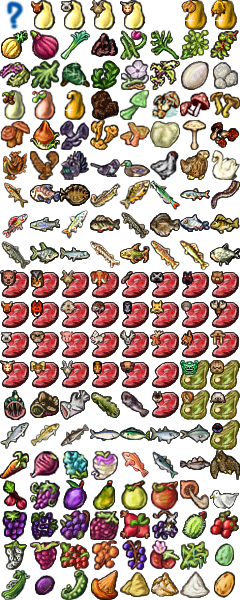
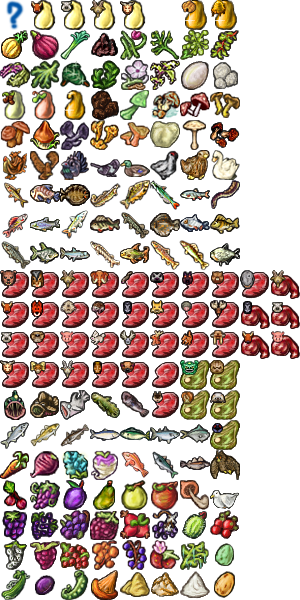
Food data added

diff --git a/rawdata/w11/tables.js b/rawdata/w11/tables.js
@@ -201,7 +201,13 @@ var gl_meat = [
 	"Wildgoat",
 	"Wolf",
 	"Wolverine",
-	"Wood Grouse"
+	"Wood Grouse",
+	"Goat bollock",
+	"Horse bollock",
+	"Mutton bollock",
+	"Beef bollock",
+	"Pork bollock",
+	"Cachalot"
 ];
 var gl_meatweird = [
 	"Ant",
@@ -326,18 +332,24 @@ var gl_food = [
 	["Bark Bread", ["water", "flour"], {"con1" : 5, "wil1" : 5}, 500, 5],
 	["Beaver Dog", ["mushroom"], {"con2" : 4, "csm1" : 2, "wil1" : 2}, 600, 2.5],
 	["Birthday Cake", ["water", "flour", "milk", "butter", "honey", "egg"], {"csm2" : 12, "psy2" : 5}, 1000, 3.5],
+	["Blubber Feast", [], {"con2" : 8.0, "agi2" : 5.0, "csm1" : 3.0, "prc1" : 3.0}, 500.0, 4.0], 
 	["Blueberry Pie", ["water", "flour"], {"int1" : 4, "prc1" : 3}, 200, 3.5],
 	["Bread", ["water", "flour"], {"con1" : 5}, 500, 5],
 	["Butter-Chived Trout", ["butter"], {"str1" : 3, "int2" : 4, "prc1" : 5}, 400, 2.5],
 	["Cabrales", [], {"dex2" : 5.0, "con1" : 5.0, "int1" : 5.0}, 100.0, 4.0], 
 	["Carrot Cake", ["water", "flour", "butter"], {"prc1" : 7}, 500, 3],
+	["Cheesecake",	["water", "flour"],	{"wil2" : 4.0, "csm1" : 3.0, "prc1" : 3.0}, 500.0, 3.0],
+	["Creamy Cock", ["milk", "fat"], {"agi1" : 15.0, "dex1" : 10.0, "prc2" : 5.0, "psy1" : 5.0}, 1000.0, 4.0],
 	["Crêpe Citrouille", ["butter", "flour", "milk", "egg", "butter"], {"str1" : 5, "agi1" : 4, "csm2" : 2}, 750, 3],
 	["Crêpe Noisette", ["butter", "flour", "milk", "egg", "sweetener"], {"con1" : 5, "agi1" : 4, "csm2" : 2}, 750, 3],
+	["Egg Cake",	["egg", "milk", "water", "flour"],	{"int1" : 5.0, "agi1" : 3.0}, 600.0, 3.5],
 	["Encumbered Roast", ["meat"], {"str2" : 3, "wil1" : 2, "prc1" : 2}, 500, 4],
 	["Fish in Tears", ["fish", "fat", "onion"], {"agi1" : 4, "csm2" : 4}, 500, 2.5],
 	["Fishballs",	["fish", "onion", "flour", "spice"],	{"csm2" : 3, "wil1" : 5.0}, 400.0, 4.0],
+	["Fishpie",	["fish", "egg", "water", "flour"],	{"int1" : 5.0, "prc1" : 3.0}, 700.0, 5.0],
 	["Fishsticks",	["fish", "butter", "milk", "flour", "egg"],	{"int1" : 4, "con1" : 4}, 400.0, 3.0],
 	["Fishwrap", ["berry", "fish", "spice"], {"int1" : 2, "prc1" : 3, "wil1" : 2}, 500, 2],
+	["Garrotxa", [], {"dex2" : 20.0, "dex1" : 30.0}, 100.0, 4.0], 
 	["Greenleaf Pie", ["flour", "salad", "water"], {"int1" : 2, "con1" : 3, "wil1" : 1}, 500, 3],
 	["Grubpie", ["water", "flour"], {"str2" : 3, "prc2" : 4, "wil2" : 4}, 600, 3],
 	["Honey'd Bear", ["honey", "butter", "spice"], {"wil2" : 4.0, "str2" : 3.0, "con1" : 3.0}, 500.0, 2.5], 
@@ -348,10 +360,12 @@ var gl_food = [
 	["Magpie", ["water", "flour", "egg", "spice"], {"int2" : 3, "con1" : 3, "wil1" : 4}, 750, 4],
 	["Majorero", [], {"prc2" : 5.0, "prc1" : 10.0, "csm1" : 15.0}, 100.0, 4.0], 
 	["Meatpie", ["water", "flour", "meat", "egg", "spice"], {"str1" : 5, "con1" : 4}, 700, 5],
+	["Midnight Blue Cheese", [], {"str2" : 50.0}, 100.0, 4.0], 
 	["Mothzarella", [], {"prc2" : 5.0, "csm2" : 3.0}, 100.0, 4.0], 
 	["Mushroom & Onion Pirozhki", ["water", "flour", "onion", "mushroom"], {"con1" : 4, "dex1" : 4}, 350, 5],
-	["Mushroom Mash",	["mushroom", "butter", "spice"],	{"wil1" : 4.0, "int1" : 3.0, "prc2" : 2.0}, 500.0, 3.0],
+	["Mushroom Mash",	["mushroom", "fat", "spice"],	{"wil1" : 4.0, "int1" : 3.0, "prc2" : 2.0}, 500.0, 3.0],
 	["Mushroom-Burst Glutton", ["carcass", "mushroom", "spice"], {"con1" : 3, "prc1" : 3, "csm2" : 2}, 750, 2],
+	["Musky Milben", [], {"str2" : 10.0, "int1" : 10.0}, 100.0, 4.0], 
 	["Olive Bread",	[ "flour", "water" ],	{"str1" : 3.0, "agi2" : 2.0, "dex1" : 4.0}, 500.0, 2.0],
 	["Pancake", ["butter", "flour", "milk", "egg"], {"csm1" : 5}, 500, 4],
 	["Pea Pie", ["water", "flour"], {"con1" : 5, "csm1" : 3, "prc1" : 2}, 500, 3.5],
@@ -366,7 +380,7 @@ var gl_food = [
 	["Strawberries in Cream", ["milk"], {"int2" : 4, "csm1" : 4, "wil1" : 4}, 500, 1],
 	["Strawberry Cake", ["water", "flour", "butter"], {"wil2" : 6, "prc1" : 6}, 400, 2],
 	["Tasty Emmentaler", [], {"csm1" : 10.0, "int2" : 5.0}, 100.0, 4.0], 
-	["Tuber Mash",	["tuber", "butter", "spice"],	{"csm1" : 5.0, "int1" : 3.0, "prc1" : 2.0}, 700.0, 3.0],
+	["Tuber Mash",	["tuber", "fat", "spice"],	{"csm1" : 5.0, "int1" : 3.0, "prc1" : 2.0}, 700.0, 3.0],
 	["Zesty Brill", ["onion"], {"str1" : 4, "dex1" : 4, "wil1" : 5}, 800, 2.5]
 ];
 var gl_fepmod = [
@@ -425,6 +439,7 @@ var gl_fepmod = [
 	["Autumn Steak", ["Wild Beef", "Parboiled Morels", "Lettuce Leaf"], {"prc2" : 2.0, "prc1" : 3.0, "con1" : 1.5, "dex2" : 4.0}], 
 	["Bark Bread", ["Millet Flour"], {"con1" : 5.75, "wil1" : 5.0}], 
 	["Beaver Dog", ["Bay Bolete"], {"con2" : 2.0, "wil1" : 2.0, "csm1" : 2.0, "dex2" : 3.0}], 
+	["Beaver Dog", ["Cave Lantern"], {"con2" : 0.8, "wil1" : 2.0, "csm1" : 2.0, "int1" : 7.0}], 
 	["Beaver Dog", ["Chantrelles"], {"con2" : 4.0, "wil1" : 2.0, "csm1" : 1.2, "agi1" : 1.0}], 
 	["Beaver Dog", ["Giant Puffball"], {"con2" : 1.6, "wil1" : 2.0, "csm1" : 2.0, "prc1" : 2.6}], 
 	["Beaver Dog", ["Parasol Mushroom"], {"con2" : 3.0, "wil1" : 2.0, "csm1" : 2.0, "dex1" : 2.0}], 
@@ -444,12 +459,31 @@ var gl_fepmod = [
 	["Carrot Cake", ["Goatsmilk", "Millet Flour"], {"prc1" : 3.9375, "wil1" : 3.43, "con1" : 1.5006}], 
 	["Carrot Cake", ["Millet Flour"], {"prc1" : 5.6, "con1" : 2.45}], 
 	["Carrot Cake", ["Sheepsmilk", "Millet Flour"], {"prc1" : 3.9375, "dex1" : 3.43, "con1" : 1.5006}], 
+	["Cheesecake", ["Barley Flour"], {"wil2" : 4.0, "csm1" : 3.0, "prc1" : 2.7, "con1" : 1.05}], 
+	["Cheesecake", ["Millet Flour"], {"wil2" : 3.2, "csm1" : 3.0, "prc1" : 3.0, "con1" : 1.4}], 
+	["Cheesecake", ["Wheat Flour"], {"wil2" : 3.2, "csm1" : 3.0, "prc1" : 5.4}], 
+	["Creamy Cock", ["Cowsmilk", "Cowsmilk"], {"agi1" : 7.5, "dex1" : 10.0, "prc2" : 5.0, "psy1" : 2.5, "con1" : 14.0}], 
+	["Creamy Cock", ["Goatsmilk", "Goatsmilk"], {"agi1" : 7.5, "dex1" : 24.0, "prc2" : 5.0, "psy1" : 2.5}], 
+	["Creamy Cock", ["Sheepsmilk", "Sheepsmilk"], {"agi1" : 7.5, "dex1" : 10.0, "prc2" : 5.0, "psy1" : 2.5, "csm1" : 14.0}], 
+	["Creamy Cock", [], {"agi1" : 15.0, "dex1" : 10.0, "prc2" : 5.0, "psy1" : 5.0}], 
 	["Crêpe Citrouille", ["Barley Flour", "Cowsmilk", "Chicken Egg", "Cowsmilk", "Cowsmilk"], {"str1" : 1.425, "agi1" : 4.0, "csm2" : 0.45, "con1" : 7.875}], 
 	["Crêpe Citrouille", ["Barley Flour", "Goatsmilk", "Chicken Egg", "Goatsmilk", "Goatsmilk"], {"str1" : 1.425, "agi1" : 4.0, "csm2" : 0.45, "dex1" : 7.875}], 
 	["Crêpe Citrouille", ["Cowsmilk", "Chicken Egg", "Millet Flour", "Cowsmilk", "Cowsmilk"], {"str1" : 1.25, "agi1" : 4.0, "csm2" : 0.5, "con1" : 8.4525}], 
 	["Crêpe Citrouille", ["Cowsmilk", "Chicken Egg", "Wheat Flour", "Cowsmilk", "Cowsmilk"], {"str1" : 1.25, "agi1" : 4.0, "csm2" : 0.5, "con1" : 5.88, "prc1" : 4.41}], 
 	["Crêpe Citrouille", ["Goatsmilk", "Chicken Egg", "Millet Flour", "Goatsmilk", "Goatsmilk"], {"str1" : 1.25, "agi1" : 4.0, "csm2" : 0.5, "dex1" : 5.88, "con1" : 2.5725}], 
 	["Crêpe Citrouille", ["Goatsmilk", "Chicken Egg", "Wheat Flour", "Goatsmilk", "Goatsmilk"], {"str1" : 1.25, "agi1" : 4.0, "csm2" : 0.5, "dex1" : 5.88, "con1" : 4.41}], 
+	["Egg Cake", ["Barley Flour", "Chicken Egg"], {"int1" : 5.0, "agi1" : 2.7, "str1" : 1.05}], 
+	["Egg Cake", ["Barley Flour", "Cowsmilk", "Chicken Egg"], {"int1" : 3.75, "agi1" : 2.7, "str1" : 2.905}], 
+	["Egg Cake", ["Barley Flour", "Goatsmilk", "Chicken Egg"], {"int1" : 3.75, "agi1" : 2.7, "str1" : 0.7875, "wil1" : 2.1175}], 
+	["Egg Cake", ["Barley Flour", "Sheepsmilk", "Chicken Egg"], {"int1" : 3.75, "agi1" : 2.7, "str1" : 0.7875, "dex1" : 2.1175}], 
+	["Egg Cake", ["Chicken Egg", "Millet Flour"], {"int1" : 4.0, "agi1" : 3.0, "wil1" : 1.75}], 
+	["Egg Cake", ["Chicken Egg", "Wheat Flour"], {"int1" : 4.0, "agi1" : 3.0, "con1" : 3.0}], 
+	["Egg Cake", ["Cowsmilk", "Chicken Egg", "Millet Flour"], {"int1" : 3.0, "agi1" : 2.25, "con1" : 2.8, "wil1" : 1.3125}], 
+	["Egg Cake", ["Cowsmilk", "Chicken Egg", "Wheat Flour"], {"int1" : 3.0, "agi1" : 2.25, "con1" : 5.05}], 
+	["Egg Cake", ["Goatsmilk", "Chicken Egg", "Millet Flour"], {"int1" : 3.0, "agi1" : 2.25, "dex1" : 2.8, "wil1" : 1.3125}], 
+	["Egg Cake", ["Goatsmilk", "Chicken Egg", "Wheat Flour"], {"int1" : 3.0, "agi1" : 2.25, "dex1" : 2.8, "con1" : 2.25}], 
+	["Egg Cake", ["Sheepsmilk", "Chicken Egg", "Millet Flour"], {"int1" : 3.0, "agi1" : 2.25, "csm1" : 2.8, "wil1" : 1.3125}], 
+	["Egg Cake", ["Sheepsmilk", "Chicken Egg", "Wheat Flour"], {"int1" : 3.0, "agi1" : 2.25, "csm1" : 2.8, "con1" : 2.25}], 
 	["Encumbered Roast", ["Bear"], {"str2" : 5.25, "wil1" : 2.0, "prc1" : 2.0}], 
 	["Encumbered Roast", ["Grey Seal"], {"str2" : 1.5, "wil1" : 2.0, "prc1" : 2.0, "agi2" : 6.0}], 
 	["Encumbered Roast", ["Mammoth"], {"str2" : 5.3333, "wil1" : 2.0, "prc1" : 2.0}], 
@@ -489,6 +523,9 @@ var gl_fepmod = [
 	["Fishballs", ["Barley Flour", "Laurel Leaves", "Leek", "Cave angler"], {"csm2" : 2.903, "wil1" : 5.0, "con1" : 1.05, "prc1" : 2.3328, "str2" : 3.7325}], 
 	["Fishballs", ["Barley Flour", "Laurel Leaves", "Red Onion", "Cave angler"], {"csm2" : 3.6288, "wil1" : 5.0, "con1" : 0.84, "str1" : 0.525, "str2" : 4.6656}], 
 	["Fishballs", ["Barley Flour", "Laurel Leaves", "Yellow Onion", "Cave angler"], {"csm2" : 2.903, "wil1" : 5.0, "con1" : 3.3828, "str2" : 3.7325}], 
+	["Fishpie", ["Barley Flour", "Chicken Egg", "Cave angler"], {"int1" : 3.5, "prc1" : 2.7, "con1" : 1.05, "con2" : 4.5}], 
+	["Fishpie", ["Chicken Egg", "Millet Flour", "Cave angler"], {"int1" : 2.8, "prc1" : 3.0, "wil1" : 1.75, "con2" : 3.6}], 
+	["Fishpie", ["Chicken Egg", "Wheat Flour", "Cave angler"], {"int1" : 2.8, "prc1" : 3.0, "con1" : 3.0, "con2" : 3.6}], 
 	["Fishsticks", ["Barley Flour", "Cowsmilk", "Chicken Egg", "Cave angler", "Cowsmilk"], {"int1" : 1.4, "con1" : 9.36, "str2" : 1.8}], 
 	["Fishwrap", ["Cave angler", "Blueberries"], {"prc1" : 2.1, "int1" : 3.08, "wil1" : 2.0, "int2" : 2.025}], 
 	["Fishwrap", ["Cave angler", "Mulberry"], {"prc1" : 2.1, "int1" : 2.0, "wil1" : 2.0, "int2" : 2.025, "csm1" : 0.945}], 
@@ -536,14 +573,29 @@ var gl_fepmod = [
 	["Honey'd Bear", ["Sheepsmilk", "Kvann", "Domestic Honey"], {"wil2" : 3.3, "str2" : 2.475, "con1" : 2.695, "csm1" : 3.3}], 
 	["Honey'd Bear", ["Sheepsmilk", "Kvann"], {"wil2" : 3.0, "str2" : 2.25, "con1" : 2.45, "csm1" : 3.0}], 
 	["Honey'd Bear", ["Sheepsmilk"], {"wil2" : 3.0, "str2" : 3.0, "con1" : 2.25, "csm1" : 2.45}], 
+	["Jotun's Morsel", ["Laurel Leaves", "Cowsmilk", "Goat bollock"], {"str1" : 3.6, "con1" : 10.788, "wil1" : 8.01, "int2" : 2.25, "agi2" : 3.6}], 
+	["Jotun's Morsel", ["Laurel Leaves", "Goat bollock", "Goatsmilk"], {"str1" : 3.6, "con1" : 6.0, "wil1" : 8.01, "int2" : 2.25, "agi2" : 3.6, "dex1" : 4.788}], 
+	["Jotun's Morsel", ["Laurel Leaves", "Goat bollock"], {"str1" : 3.6, "con1" : 6.0, "wil1" : 10.68, "int2" : 3.0, "agi2" : 3.6}], 
+	["Jotun's Morsel", ["Laurel Leaves", "Horse bollock"], {"str1" : 3.6, "con1" : 6.0, "wil1" : 10.68, "int2" : 3.0, "agi2" : 3.6}], 
 	["Jotun's Morsel", ["Laurel Leaves", "Mammoth"], {"str1" : 4.0, "con1" : 4.0, "wil1" : 7.12, "int2" : 2.0, "con2" : 4.28}], 
+	["Jotun's Morsel", ["Laurel Leaves", "Mutton bollock"], {"str1" : 3.0, "con1" : 6.0, "wil1" : 10.68, "int2" : 3.0, "csm2" : 6.0}], 
 	["Jotun's Morsel", ["Mammoth", "Chives"], {"str1" : 4.0, "con1" : 4.0, "wil1" : 4.0, "int2" : 2.0, "str2" : 3.5, "agi1" : 8.3047}], 
 	["Jotun's Morsel", ["Mammoth", "Dill"], {"str1" : 4.0, "con1" : 4.0, "wil1" : 4.0, "int2" : 2.0, "str2" : 5.915}], 
 	["Jotun's Morsel", ["Mammoth", "Kvann"], {"str1" : 4.0, "con1" : 4.0, "wil1" : 2.0, "int2" : 4.0, "str2" : 3.5}], 
 	["Jotun's Morsel", ["Mammoth"], {"str1" : 4.0, "con1" : 4.0, "wil1" : 4.0, "int2" : 2.0, "str2" : 3.5}], 
+	["Jotun's Morsel", ["Wolf", "Chives"], {"str1" : 6.0, "con1" : 4.0, "wil1" : 4.0, "int2" : 2.0, "agi1" : 7.5928}], 
+	["Jotun's Morsel", ["Wolf", "Kvann"], {"str1" : 6.0, "con1" : 4.0, "wil1" : 2.0, "int2" : 4.0}], 
+	["Jotun's Morsel", ["Wolf", "Laurel Leaves", "Cowsmilk"], {"str1" : 6.0, "con1" : 7.192, "wil1" : 5.34, "int2" : 1.5}], 
+	["Jotun's Morsel", ["Wolf"], {"str1" : 6.0, "con1" : 4.0, "wil1" : 4.0, "int2" : 2.0}], 
 	["Kebab Meat", ["Adder", "Kvann"], {"con2" : 1.0, "csm1" : 0.6, "int2" : 0.9}], 
 	["Kebab Meat", ["Adder"], {"con2" : 0.6, "csm1" : 1.0, "int2" : 0.9}], 
 	["Kebab Meat", ["Bat"], {"con2" : 1.0, "csm1" : 0.7, "prc1" : 0.4}], 
+	["Kebab Meat", ["Boreworm", "Laurel Leaves"], {"con2" : 1.0, "csm1" : 0.978, "dex1" : 0.4}], 
+	["Kebab Meat", ["Boreworm"], {"con2" : 1.0, "csm1" : 0.6, "dex1" : 0.4}], 
+	["Kebab Meat", ["Cave louse"], {"con2" : 1.8, "csm1" : 0.6}], 
+	["Kebab Meat", ["Chives", "Cachalot"], {"con2" : 0.5, "csm1" : 1.0, "agi1" : 0.5001, "agi2" : 2.5}], 
+	["Kebab Meat", ["Chives", "Cave louse"], {"con2" : 1.0, "csm1" : 1.0, "agi1" : 0.3001, "wil1" : 0.4001}], 
+	["Kebab Meat", ["Laurel Leaves", "Cave louse"], {"con2" : 1.4, "csm1" : 1.63}], 
 	["Kebab Meat", ["Laurel Leaves", "Mammoth"], {"con2" : 2.315, "csm1" : 1.63}], 
 	["Kebab Meat", ["Lynx"], {"con2" : 0.5, "csm1" : 1.0, "agi1" : 1.0}], 
 	["Kebab Meat", ["Mammoth", "Chives"], {"con2" : 2.0, "csm1" : 1.0, "agi1" : 0.7501}], 
@@ -562,7 +614,12 @@ var gl_fepmod = [
 	["Meatpie", ["Barley Flour", "Chicken Egg", "Golden Eagle", "Kvann"], {"str1" : 1.25, "con1" : 5.0, "wil2" : 6.25}], 
 	["Meatpie", ["Barley Flour", "Chicken Egg", "Golden Eagle"], {"str1" : 5.0, "con1" : 1.25, "wil2" : 6.25}], 
 	["Meatpie", ["Barley Flour", "Laurel Leaves", "Chicken Egg", "Golden Eagle"], {"str1" : 1.25, "con1" : 5.85, "prc2" : 6.25}], 
+	["Meatpie", ["Barley Flour", "Laurel Leaves", "Wolverine", "Chicken Egg"], {"str1" : 3.0, "con1" : 5.85, "agi1" : 4.0}], 
 	["Meatpie", ["Barley Flour", "Mammoth", "Chicken Egg"], {"str1" : 5.0, "con1" : 5.0, "con2" : 5.0}], 
+	["Meatpie", ["Barley Flour", "Wolverine", "Chicken Egg", "Chives"], {"str1" : 5.0, "con1" : 3.0, "dex2" : 4.0, "agi1" : 0.059}], 
+	["Meatpie", ["Barley Flour", "Wolverine", "Chicken Egg", "Dill"], {"str1" : 5.0, "con1" : 3.0, "dex2" : 4.32}], 
+	["Meatpie", ["Barley Flour", "Wolverine", "Chicken Egg", "Kvann"], {"str1" : 3.0, "con1" : 5.0, "dex2" : 4.0}], 
+	["Meatpie", ["Barley Flour", "Wolverine", "Chicken Egg"], {"str1" : 5.0, "con1" : 3.0, "dex2" : 4.0}], 
 	["Meatpie", ["Bat", "Millet Flour"], {"str1" : 4.0, "con1" : 4.55, "int1" : 1.6}], 
 	["Meatpie", ["Chicken Egg", "Chives", "Golden Eagle", "Wheat Flour"], {"str1" : 4.0, "con1" : 4.0, "agi1" : 3.0111, "prc1" : 0.0553}], 
 	["Meatpie", ["Chicken Egg", "Golden Eagle", "Wheat Flour", "Kvann"], {"str1" : 3.0, "con1" : 4.0, "wil2" : 5.0, "agi1" : 1.0}], 
@@ -576,6 +633,7 @@ var gl_fepmod = [
 	["Meatpie", ["Laurel Leaves", "Chicken Egg", "Millet Flour", "Golden Eagle"], {"str1" : 1.0, "con1" : 6.43, "prc2" : 5.0}], 
 	["Meatpie", ["Laurel Leaves", "Mammoth", "Chicken Egg", "Millet Flour"], {"str1" : 4.0, "con1" : 6.43, "con2" : 4.84}], 
 	["Meatpie", ["Laurel Leaves", "Mammoth", "Chicken Egg", "Wheat Flour"], {"str1" : 4.0, "con1" : 4.68, "con2" : 4.84, "agi1" : 3.0}], 
+	["Meatpie", ["Laurel Leaves", "Wolverine", "Chicken Egg", "Millet Flour"], {"str1" : 4.0, "con1" : 4.558, "dex2" : 3.744}], 
 	["Meatpie", ["Lynx", "Millet Flour"], {"str1" : 2.5, "con1" : 4.0, "int1" : 4.0, "wil1" : 1.75}], 
 	["Meatpie", ["Mammoth", "Chicken Egg", "Chives", "Wheat Flour"], {"str1" : 4.0, "con1" : 4.0, "con2" : 4.5, "agi1" : 3.0663}], 
 	["Meatpie", ["Mammoth", "Chicken Egg", "Millet Flour", "Chives"], {"str1" : 4.0, "con1" : 5.75, "con2" : 4.5, "agi1" : 0.07}], 
@@ -590,6 +648,10 @@ var gl_fepmod = [
 	["Meatpie", ["Wild Beef", "Millet Flour"], {"str1" : 4.0, "con1" : 5.75}], 
 	["Meatpie", ["Wild Horse", "Millet Flour"], {"str1" : 4.0, "con1" : 2.75, "agi1" : 3.0}], 
 	["Meatpie", ["Wolf", "Millet Flour"], {"str1" : 6.0, "con1" : 6.625}], 
+	["Meatpie", ["Wolverine", "Chicken Egg", "Millet Flour", "Chives"], {"str1" : 4.0, "con1" : 4.15, "dex2" : 3.2, "agi1" : 0.0558}], 
+	["Meatpie", ["Wolverine", "Chicken Egg", "Millet Flour", "Dill"], {"str1" : 4.0, "con1" : 4.15, "dex2" : 3.456}], 
+	["Meatpie", ["Wolverine", "Chicken Egg", "Millet Flour", "Kvann"], {"str1" : 4.15, "con1" : 4.0, "dex2" : 3.2}], 
+	["Meatpie", ["Wolverine", "Chicken Egg", "Millet Flour"], {"str1" : 4.0, "con1" : 4.15, "dex2" : 3.2}], 
 	["Meatpie", ["Wolverine", "Millet Flour"], {"str1" : 4.0, "con1" : 4.15, "dex2" : 3.2}], 
 	["Mushroom & Onion Pirozhki", ["Bay Bolete", "Leek", "Millet Flour"], {"con1" : 3.12, "dex1" : 2.56, "dex2" : 3.0, "int1" : 1.8}], 
 	["Mushroom & Onion Pirozhki", ["Bay Bolete", "Red Onion", "Millet Flour"], {"con1" : 3.4, "dex1" : 3.2, "dex2" : 2.4, "str1" : 1.5}], 
@@ -735,7 +797,9 @@ var gl_fepmod = [
 	["Mushroom-Burst Glutton", ["Parasol Mushroom", "Laurel Leaves", "Swan"], {"csm2" : 1.62, "prc1" : 3.0, "con1" : 3.0, "str1" : 0.6, "int1" : 0.5}], 
 	["Mushroom-Burst Glutton", ["Parasol Mushroom", "Laurel Leaves", "Wood Grouse"], {"csm2" : 1.62, "prc1" : 3.8, "con1" : 3.0, "str1" : 0.4}],
 	["Mushroom-Burst Glutton", ["Swan", "Yellowfeet"], {"csm2" : 1.2, "prc1" : 3.0, "con1" : 3.0, "int1" : 0.7, "str1" : 0.5}], 
+	["Olive Bread", ["Barley Flour"], {"str1" : 3.0, "agi2" : 1.8, "dex1" : 4.0, "csm1" : 0.7}], 
 	["Olive Bread", ["Millet Flour"], {"str1" : 3.0, "agi2" : 2.0, "dex1" : 3.2, "wil1" : 1.4}], 
+	["Olive Bread", ["Wheat Flour"], {"str1" : 3.0, "agi2" : 2.0, "dex1" : 3.2, "con1" : 2.4}], 
 	["Pancake", ["Barley Flour", "Cowsmilk", "Chicken Egg", "Cowsmilk"], {"csm1" : 2.25, "con1" : 0.875, "str1" : 4.375}], 
 	["Pancake", ["Barley Flour", "Goatsmilk", "Chicken Egg", "Goatsmilk"], {"csm1" : 2.25, "con1" : 0.875, "wil1" : 4.375}], 
 	["Pancake", ["Cowsmilk", "Chicken Egg", "Millet Flour", "Cowsmilk"], {"csm1" : 2.5, "con1" : 4.83}], 
@@ -799,5 +863,5 @@ var gl_fepmod = [
 	["Tuber Mash", ["Turnip", "Laurel Leaves", "Sheepsmilk"], {"csm1" : 7.8789, "int1" : 6.8119, "prc1" : 1.5}], 
 	["Tuber Mash", ["Turnip", "Laurel Leaves"], {"csm1" : 4.0, "int1" : 9.0825, "prc1" : 2.0}], 
 	["Tuber Mash", ["Turnip", "Sheepsmilk"], {"csm1" : 6.5375, "int1" : 3.9375, "prc1" : 1.5}], 
-	["Tuber Mash", ["Turnip"], {"csm1" : 4.0, "int1" : 5.25, "prc1" : 2.0}] 
+	["Tuber Mash", ["Turnip"], {"csm1" : 4.0, "int1" : 5.25, "prc1" : 2.0}]
 ];

diff --git a/gfx/ingredient.css b/gfx/ingredient.css
@@ -15,6 +15,13 @@
 	margin: 0px !important;
 }
 
+.goatbollock 		{background-position: -270px -270px}
+.horsebollock 	{background-position: -240px -300px}
+.muttonbollock 	{background-position: -270px -300px}
+.beefbollock 		{background-position: -240px -330px}
+.porkbollock 		{background-position: -270px -330px}
+.cachalot 			{background-position: -240px -270px}
+
 .barleyflour{background-position: -150px -570px}
 .wheatflour {background-position: -180px -570px}
 
